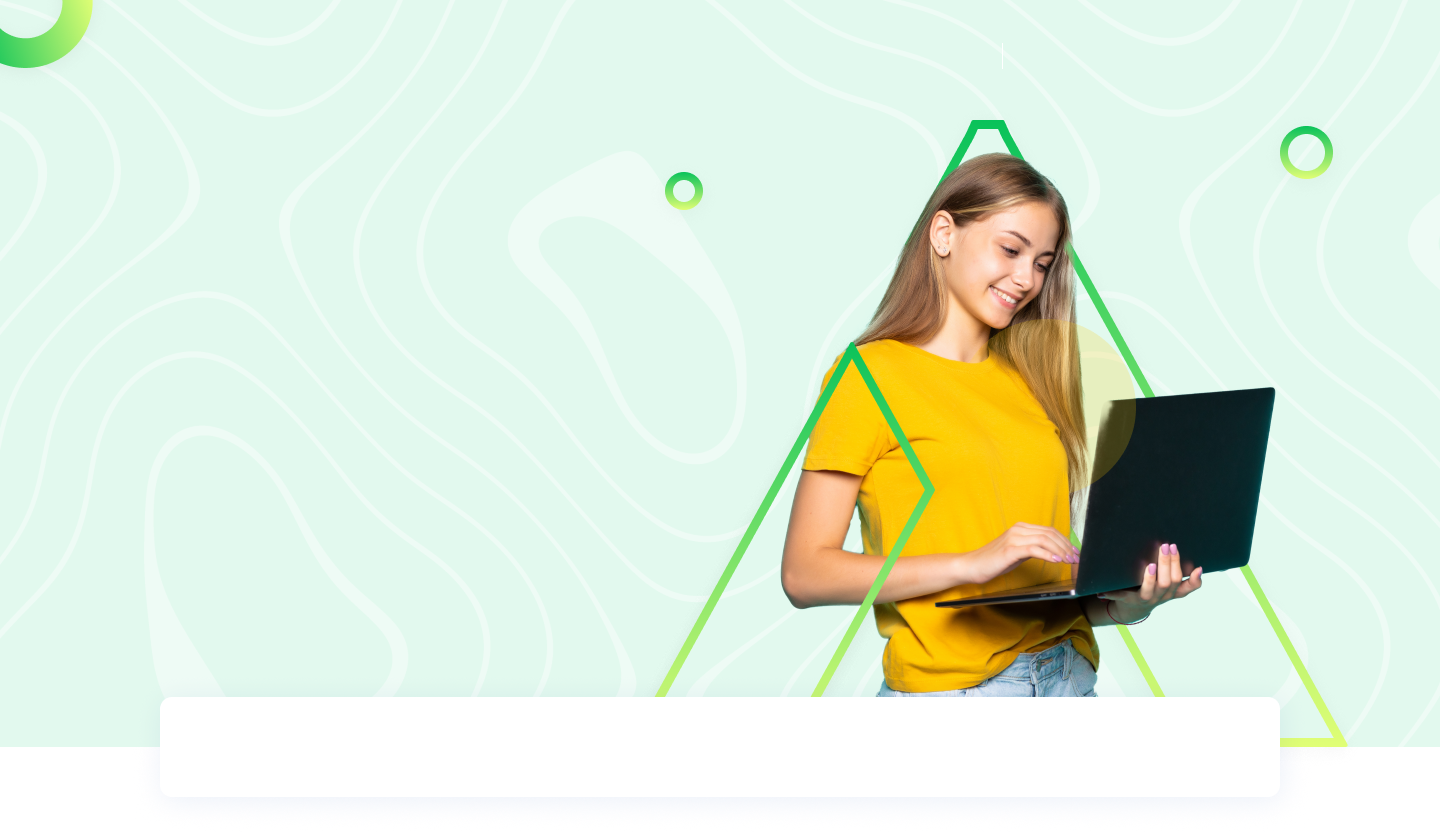
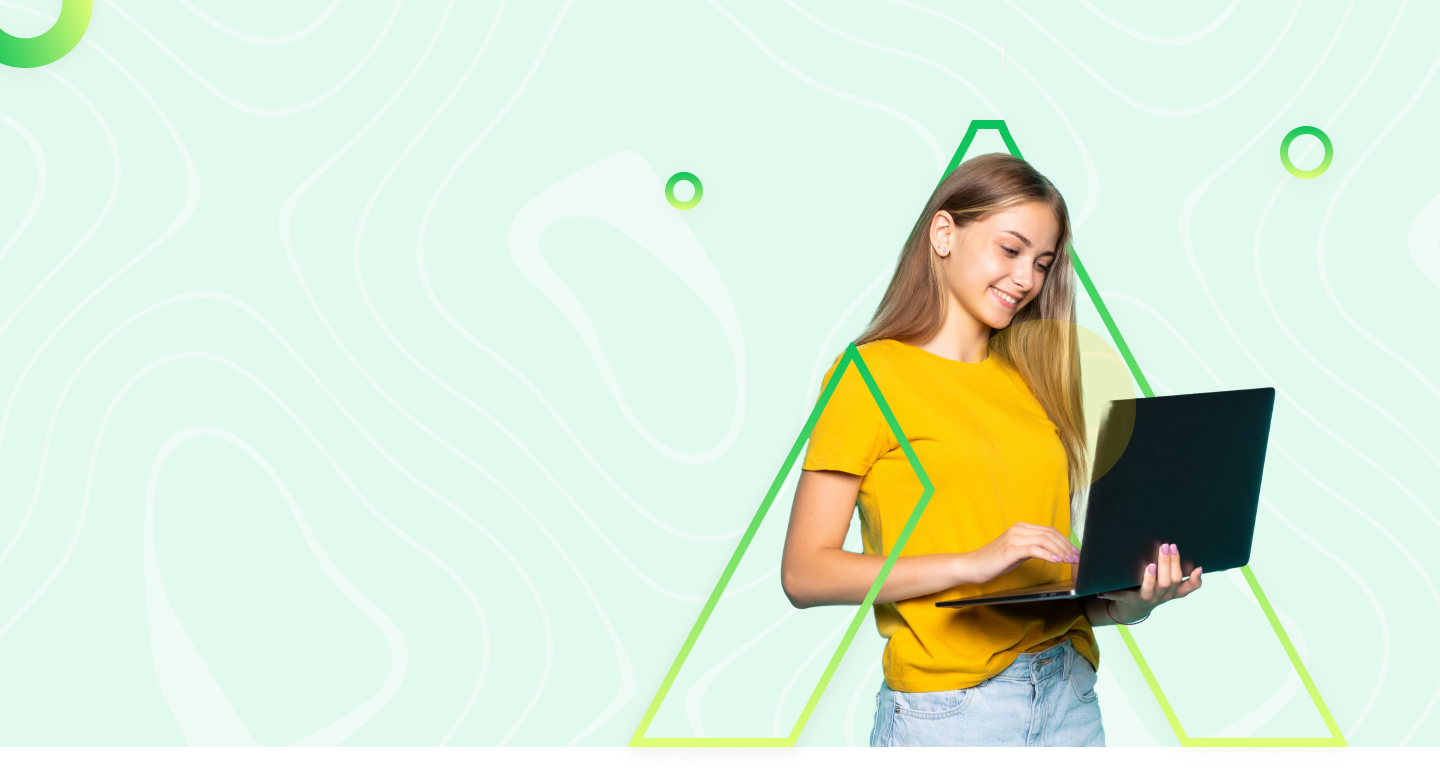
change hader background image and fix header layout.

diff --git a/src/components/Layout/Background.js b/src/components/Layout/Background.js
@@ -9,7 +9,7 @@ const Background = () => {
     <Navbar/>
     <div className="h-screen bg-center bg-cover" style={{ backgroundImage: `url(${background})` }}>
         
-        <div className='text-left pt-36 ml-[11.5vw] -mt-[1.9vh]'>
+        <div className='text-left pt-36 ml-[11.5vw] -mt-[6.6vh]'>
           <h1 className='text-[#797979] text-lg font-semibold tracking-wider'><span className='text-[#031136] indent-4'>Popular:</span> Design Art Business Video Editing</h1>
           <h6 className='text-[50px] font-cardo font-semibold leading-[67.7px] mt-2 text-[#031136]'>Find & Hire <br/> Top 3% of expert <br/> on Alanced</h6>
           <h1 className='mt-6 text-[#797979] text-[16px] font-inter font-normal leading-[26px] mb-3.5'>With the largest professional creative community online, simply <br/> search through from our website</h1>

diff --git a/src/components/Layout/HomeSection.js b/src/components/Layout/HomeSection.js
@@ -6,7 +6,7 @@ const Section = () => {
     return(
         <>
         <section className='flex justify-center '>
-            <div className='lg:w-[77vw] w-[95vw] p-2 lg:h-24 -mt-16 rounded-2xl lg:flex justify-center items-center shadow-lg'>
+            <div className='lg:w-[77vw] w-[95vw] bg-white -mt-[11vh] p-2 lg:h-24 -mt-12 rounded-2xl lg:flex justify-center items-center shadow-lg'>
                 <div className='flex flex-row p-4 lg:border-r-2 lg:border-r-[#1C3865]'>
                     <img src={search}></img>
                     <input className='w-96 ml-4 lg:mr-48' placeholder='Search'></input>
